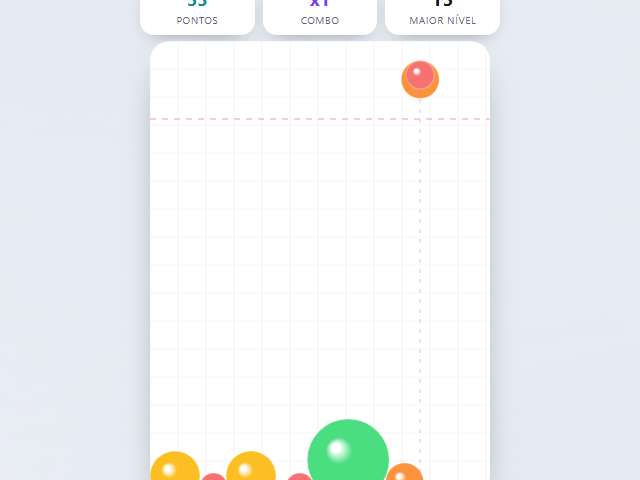
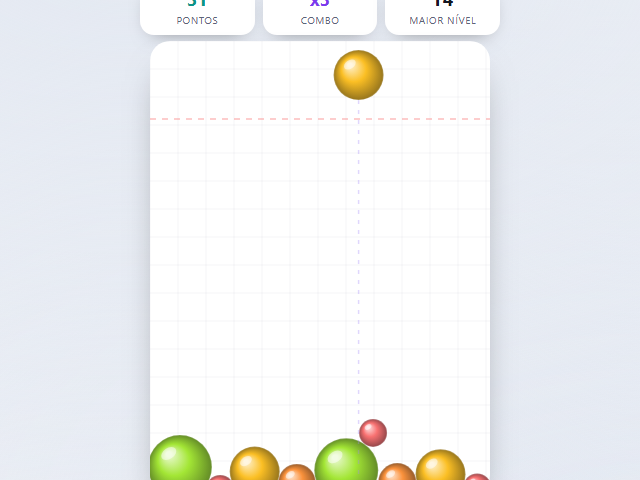
Fusion Rush v1.1.0: as bolas liam como disco, nao como esfera
O desenho ia do branco direto para a cor chapada ate a borda. Sem escurecer a
beirada, a bola aterrissava na pilha parecendo um adesivo redondo.

Agora o gradiente radial interpola a cor da tier com branco no miolo e com o
fundo escuro na borda, mais um realce especular na mesma direcao de luz das
pecas do Cosmic Crush. A funcao lerpCor evita declarar tres tons por tier na
tabela TIERS.

diff --git a/minijogos/fusion-rush/index.html b/minijogos/fusion-rush/index.html
@@ -191,7 +191,7 @@ if(/[?&]attract=1(&|$)/.test(location.search)){
     </div>
   </div>
 
-  <footer>Fusion Rush <span class="ver">v1.0.0</span> — física própria, feito com HTML, CSS e JS puro, sem dependências.<br>Por <a href="https://github.com/jvaz-DEVENG" target="_blank" rel="noopener">@jvaz-DEVENG</a> · <a href="../../">← voltar ao showcase</a></footer>
+  <footer>Fusion Rush <span class="ver">v1.1.0</span> — física própria, feito com HTML, CSS e JS puro, sem dependências.<br>Por <a href="https://github.com/jvaz-DEVENG" target="_blank" rel="noopener">@jvaz-DEVENG</a> · <a href="../../">← voltar ao showcase</a></footer>
 
 <script>
 (function(){
@@ -756,17 +756,38 @@ if(/[?&]attract=1(&|$)/.test(location.search)){
     ctx.restore();
   }
 
+  // mistura duas cores hex; usado para clarear o miolo e escurecer a borda
+  // da bola sem precisar declarar tres tons por tier na tabela TIERS
+  function lerpCor(hex, alvo, f){
+    const n = parseInt(hex.slice(1), 16), a = parseInt(alvo.slice(1), 16);
+    const m = (x, y) => Math.round(x + (y - x) * f);
+    return 'rgb(' + m((n>>16)&255, (a>>16)&255) + ','
+                  + m((n>>8)&255,  (a>>8)&255)  + ','
+                  + m(n&255,       a&255)       + ')';
+  }
+
   function drawBallGlyph(x, y, r, color){
-    const grad = ctx.createRadialGradient(x - r*0.3, y - r*0.3, r*0.1, x, y, r);
-    grad.addColorStop(0, '#ffffff');
-    grad.addColorStop(0.25, color);
-    grad.addColorStop(1, color);
+    // a versao antiga ia de branco direto para a cor chapada ate a borda:
+    // sem escurecer a beirada a bola lia como disco, nao como esfera
+    const grad = ctx.createRadialGradient(x - r*0.35, y - r*0.40, r*0.08, x, y, r);
+    grad.addColorStop(0,    lerpCor(color, '#ffffff', 0.72));
+    grad.addColorStop(0.45, color);
+    grad.addColorStop(1,    lerpCor(color, '#0b0e14', 0.42));
     ctx.beginPath();
     ctx.arc(x, y, r, 0, Math.PI*2);
     ctx.fillStyle = grad;
     ctx.fill();
+
+    // realce especular, na mesma direcao de luz das pecas do Cosmic Crush
+    ctx.beginPath();
+    ctx.ellipse(x - r*0.35, y - r*0.42, r*0.26, r*0.17, -0.6, 0, Math.PI*2);
+    ctx.fillStyle = 'rgba(255,255,255,.5)';
+    ctx.fill();
+
+    ctx.beginPath();
+    ctx.arc(x, y, r, 0, Math.PI*2);
     ctx.lineWidth = 1.5;
-    ctx.strokeStyle = 'rgba(255,255,255,.25)';
+    ctx.strokeStyle = 'rgba(255,255,255,.22)';
     ctx.stroke();
   }
 
